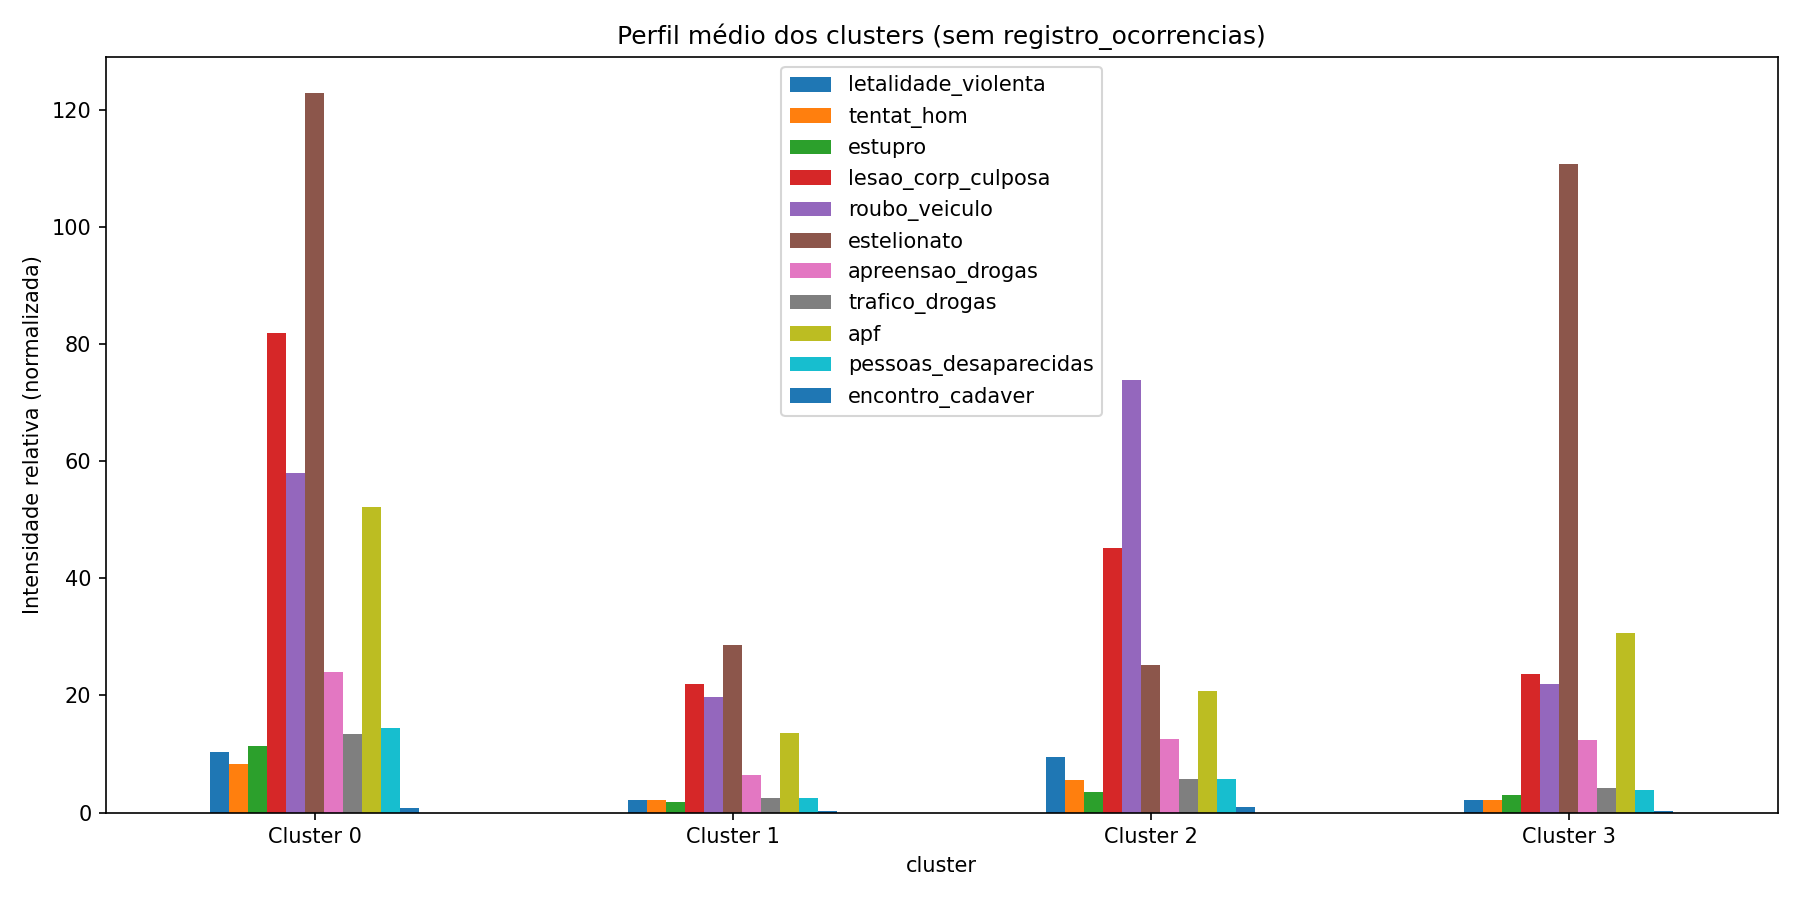
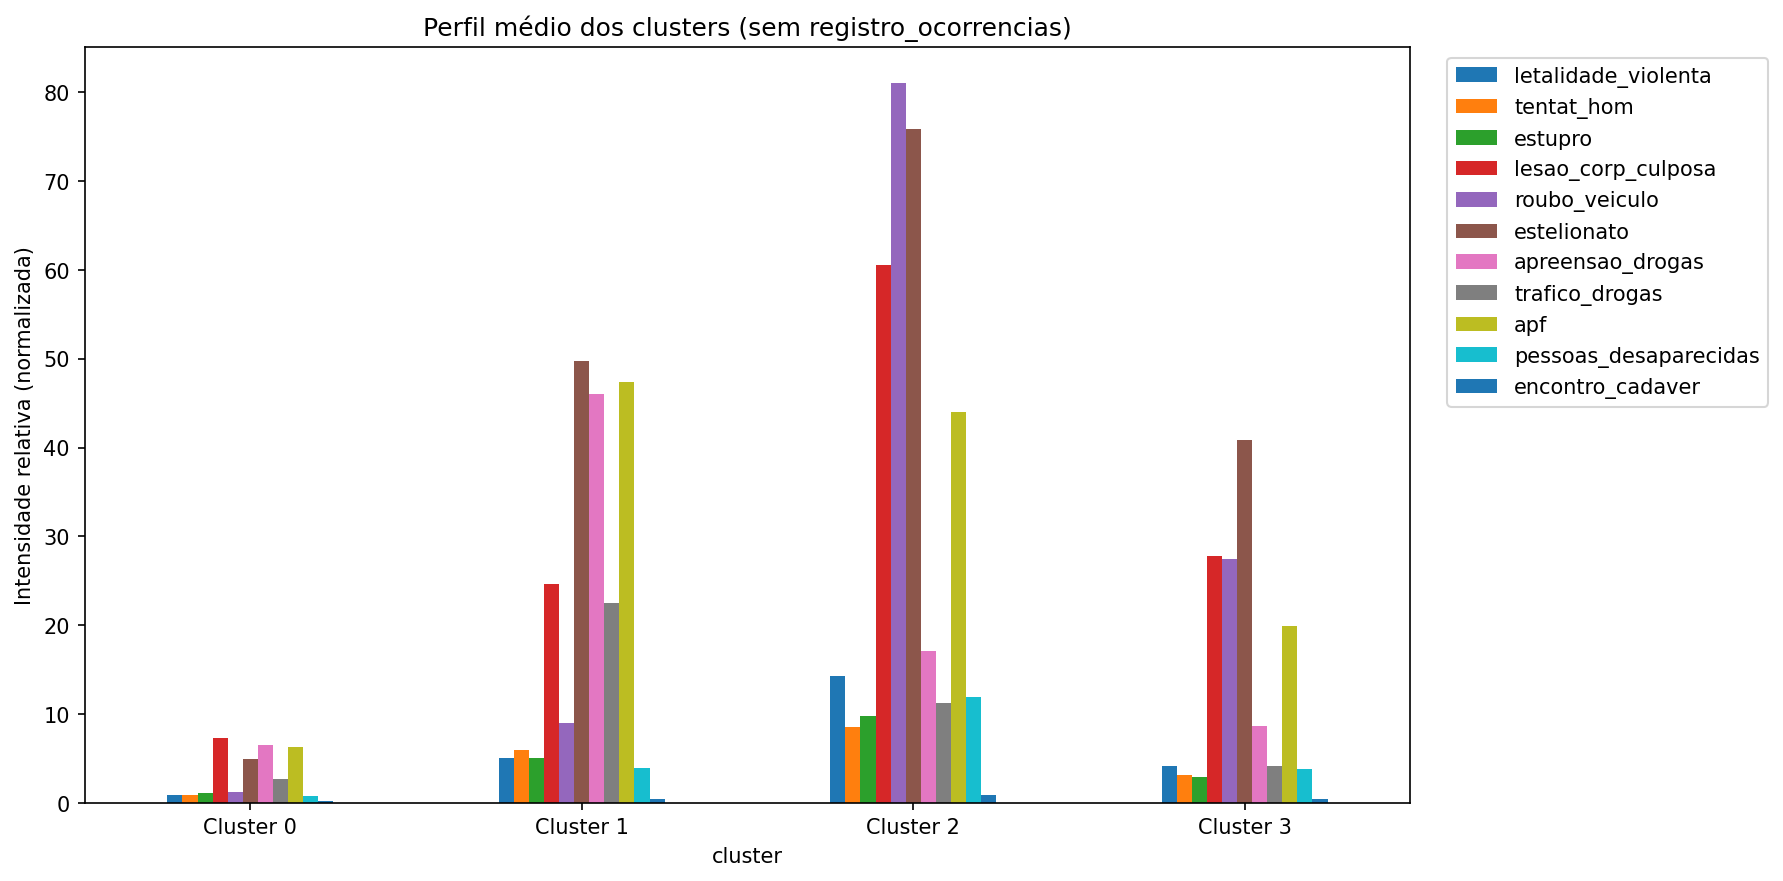
Ajustes nos gráficos de perfil médio

diff --git a/crime_monitor/backend/app.py b/crime_monitor/backend/app.py
@@ -742,8 +742,11 @@ def agrupamentos_data():
     ax1.set_title("Perfil médio dos clusters (sem registro_ocorrencias)")
     ax1.set_ylabel("Intensidade relativa (normalizada)")
     ax1.set_xticklabels([f"Cluster {i}" for i in df_cluster_profile.drop(columns=['registro_ocorrencias'], errors='ignore').index], rotation=0)
+    # Legenda fora do gráfico
+    legend1 = ax1.legend(frameon=True, bbox_to_anchor=(1.02, 1), loc='upper left')  # fora à direita
+    legend1.get_frame().set_facecolor('none')  # fundo transparente
     plt.tight_layout()
-    fig1.savefig(perfil_img_sem, dpi=150)
+    fig1.savefig(perfil_img_sem, dpi=150, bbox_inches='tight')
     plt.close(fig1)
 
     # --- Imagem 2: com 'registro_ocorrencias' ---
@@ -753,8 +756,11 @@ def agrupamentos_data():
     ax2.set_title("Perfil médio dos clusters (com registro_ocorrencias)")
     ax2.set_ylabel("Intensidade relativa (normalizada)")
     ax2.set_xticklabels([f"Cluster {i}" for i in df_cluster_profile.index], rotation=0)
+    # Legenda fora do gráfico
+    legend2 = ax2.legend(frameon=True, bbox_to_anchor=(1.02, 1), loc='upper left')
+    legend2.get_frame().set_facecolor('none')
     plt.tight_layout()
-    fig2.savefig(perfil_img_com, dpi=150)
+    fig2.savefig(perfil_img_com, dpi=150, bbox_inches='tight')
     plt.close(fig2)
 
     # Importância das variáveis
@@ -789,7 +795,6 @@ def mapa_clusters():
     group_by = request.args.get("group_by", "mcirc")
     inicio = request.args.get("inicio")
     fim = request.args.get("fim")
-    municipio = request.args.get("municipio")
     k = int(request.args.get("k", 4))
 
     shapefile = SHAPEFILES.get(group_by)
@@ -808,43 +813,32 @@ def mapa_clusters():
     if fim:
         df = df[df["data"] <= pd.to_datetime(fim)]
 
-    # === Filtrar município específico sem remover outras regiões do shapefile ===
-    if municipio and shapefile_col in gdf.columns:
-        df_grouped = df[df[group_by] == municipio].groupby(group_by).agg({
-            "letalidade_violenta": "sum",
-            "roubo_veiculo": "sum",
-            "estupro": "sum",
-            "estelionato": "sum",
-            "trafico_drogas": "sum",
-            "apf": "sum"
-        }).reset_index()
-    else:
-        df_grouped = df.groupby(group_by).agg({
-            "letalidade_violenta": "sum",
-            "roubo_veiculo": "sum",
-            "estupro": "sum",
-            "estelionato": "sum",
-            "trafico_drogas": "sum",
-            "apf": "sum"
-        }).reset_index()
+    # === Agrupar dados ===
+    df_grouped = df.groupby(group_by).agg({
+        "letalidade_violenta": "sum",
+        "roubo_veiculo": "sum",
+        "estupro": "sum",
+        "estelionato": "sum",
+        "trafico_drogas": "sum",
+        "apf": "sum"
+    }).reset_index()
 
     features = ["letalidade_violenta", "roubo_veiculo", "estupro", "estelionato", "trafico_drogas", "apf"]
     X = df_grouped[features].fillna(0)
     X_scaled = StandardScaler().fit_transform(X)
 
-    # === KMeans com número de clusters dinâmico ===
     kmeans = KMeans(n_clusters=k, random_state=42, n_init=10)
     df_grouped["cluster"] = kmeans.fit_predict(X_scaled)
 
-    # === Merge mantendo todas as regiões ===
+    # === Merge sem excluir regiões ===
     gdf[shapefile_col] = gdf[shapefile_col].astype(str)
     df_grouped[group_by] = df_grouped[group_by].astype(str)
     gdf = gdf.merge(df_grouped[[group_by, "cluster"]], left_on=shapefile_col, right_on=group_by, how="left")
 
-    # Preenche clusters ausentes com -1 (sem dados)
+    # Preenche clusters ausentes para não deixar regiões em branco
     gdf["cluster"] = gdf["cluster"].fillna(-1).astype(int)
 
-    # === Paleta fixa por cluster (sempre a mesma cor para cada cluster) ===
+    # === Paleta fixa por cluster ===
     fixed_colors = {
         0: "#1f77b4",  # azul
         1: "#ffc222",  # laranja
@@ -853,7 +847,7 @@ def mapa_clusters():
         4: "#9467bd",  # roxo
         -1: "#cccccc"  # cinza para regiões sem dados
     }
-    gdf["color"] = gdf["cluster"].map(lambda c: fixed_colors.get(c, "#cccccc"))
+    gdf["color"] = gdf["cluster"].map(fixed_colors)
 
     # === Plot ===
     fig, ax = plt.subplots(1, 1, figsize=(10, 10))
@@ -862,13 +856,11 @@ def mapa_clusters():
     ax.set_axis_off()
     plt.title("Mapa de Clusters de Criminalidade", fontsize=15)
 
-    legend_elements = [
-        Patch(facecolor=fixed_colors[i], edgecolor='0.8', label=f"Cluster {i}" if i >= 0 else "Sem dados")
-        for i in range(-1, k)
-    ]
+    legend_elements = [Patch(facecolor=fixed_colors[i], edgecolor='0.8', label=f"Cluster {i}" if i >=0 else "Sem dados") 
+                       for i in range(-1, k)]
     ax.legend(handles=legend_elements, title="Clusters", loc="lower left")
 
-    params_str = f"clusters_{group_by}_{inicio}_{fim}_{municipio}_{k}".replace(" ", "_").replace(":", "_")
+    params_str = f"clusters_{group_by}_{inicio}_{fim}".replace(" ", "_").replace(":", "_")
     image_name = f"{params_str}.png"
     image_path = os.path.join(MAP_FOLDER, image_name)
 
